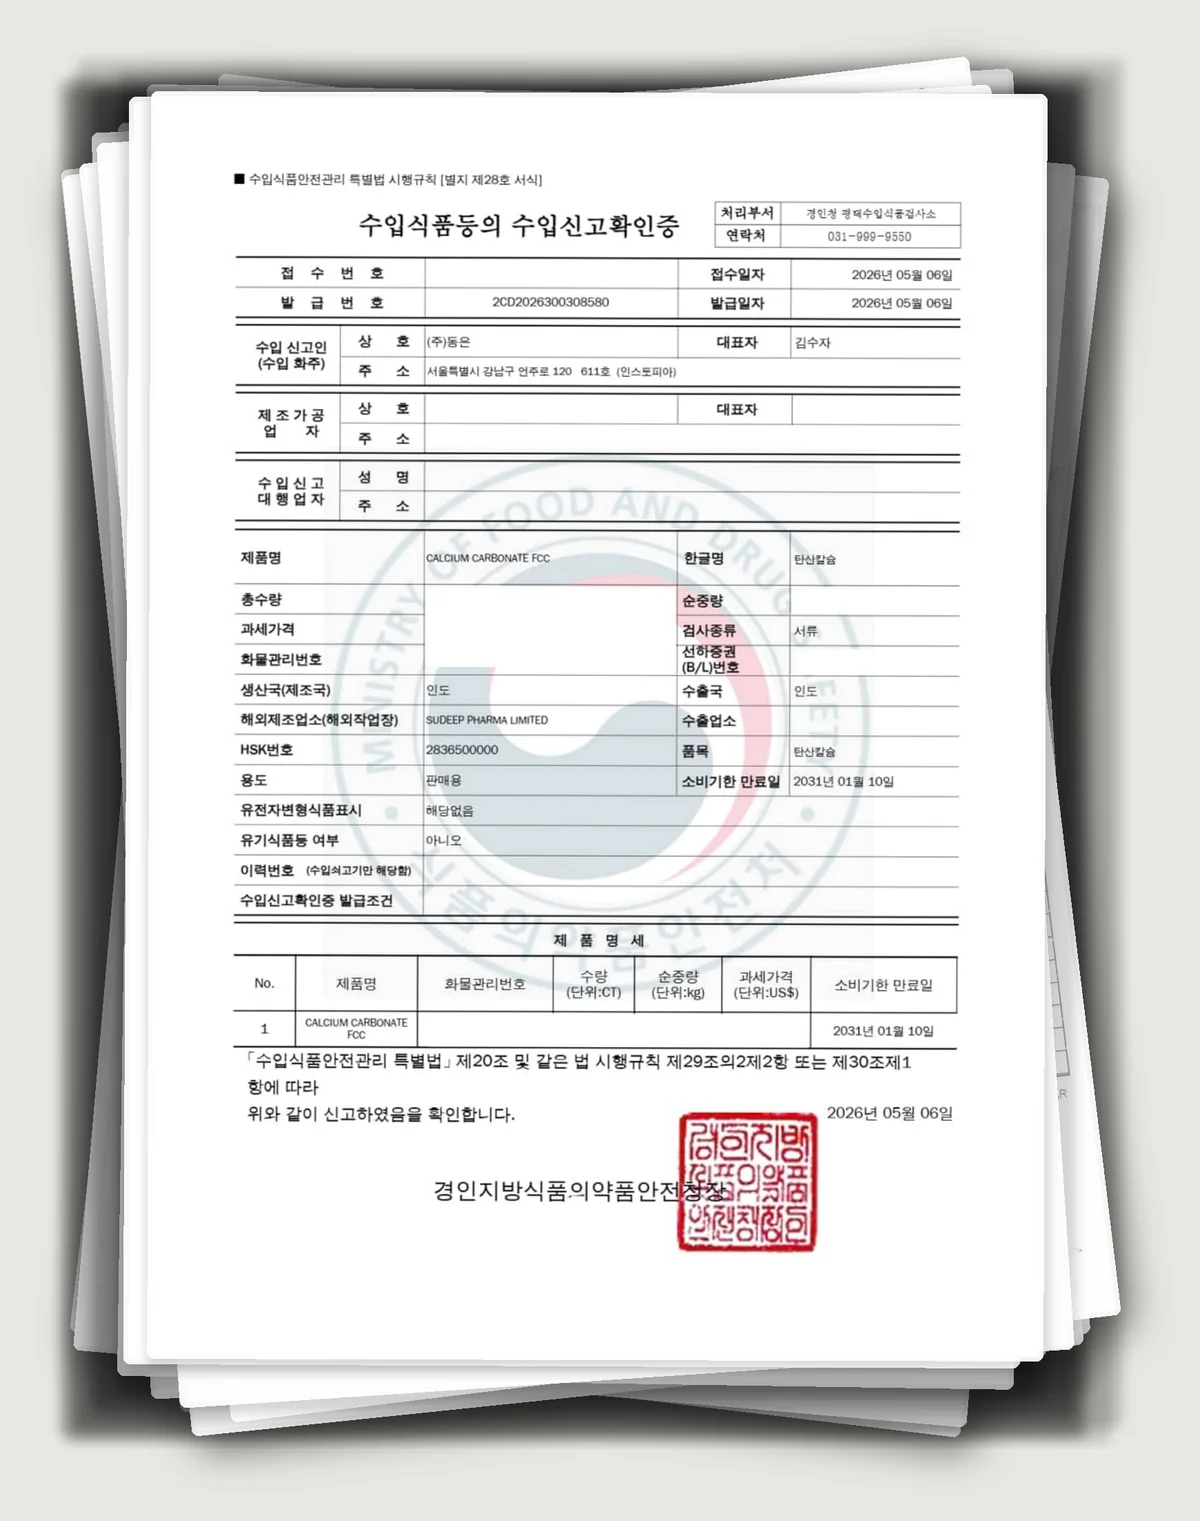
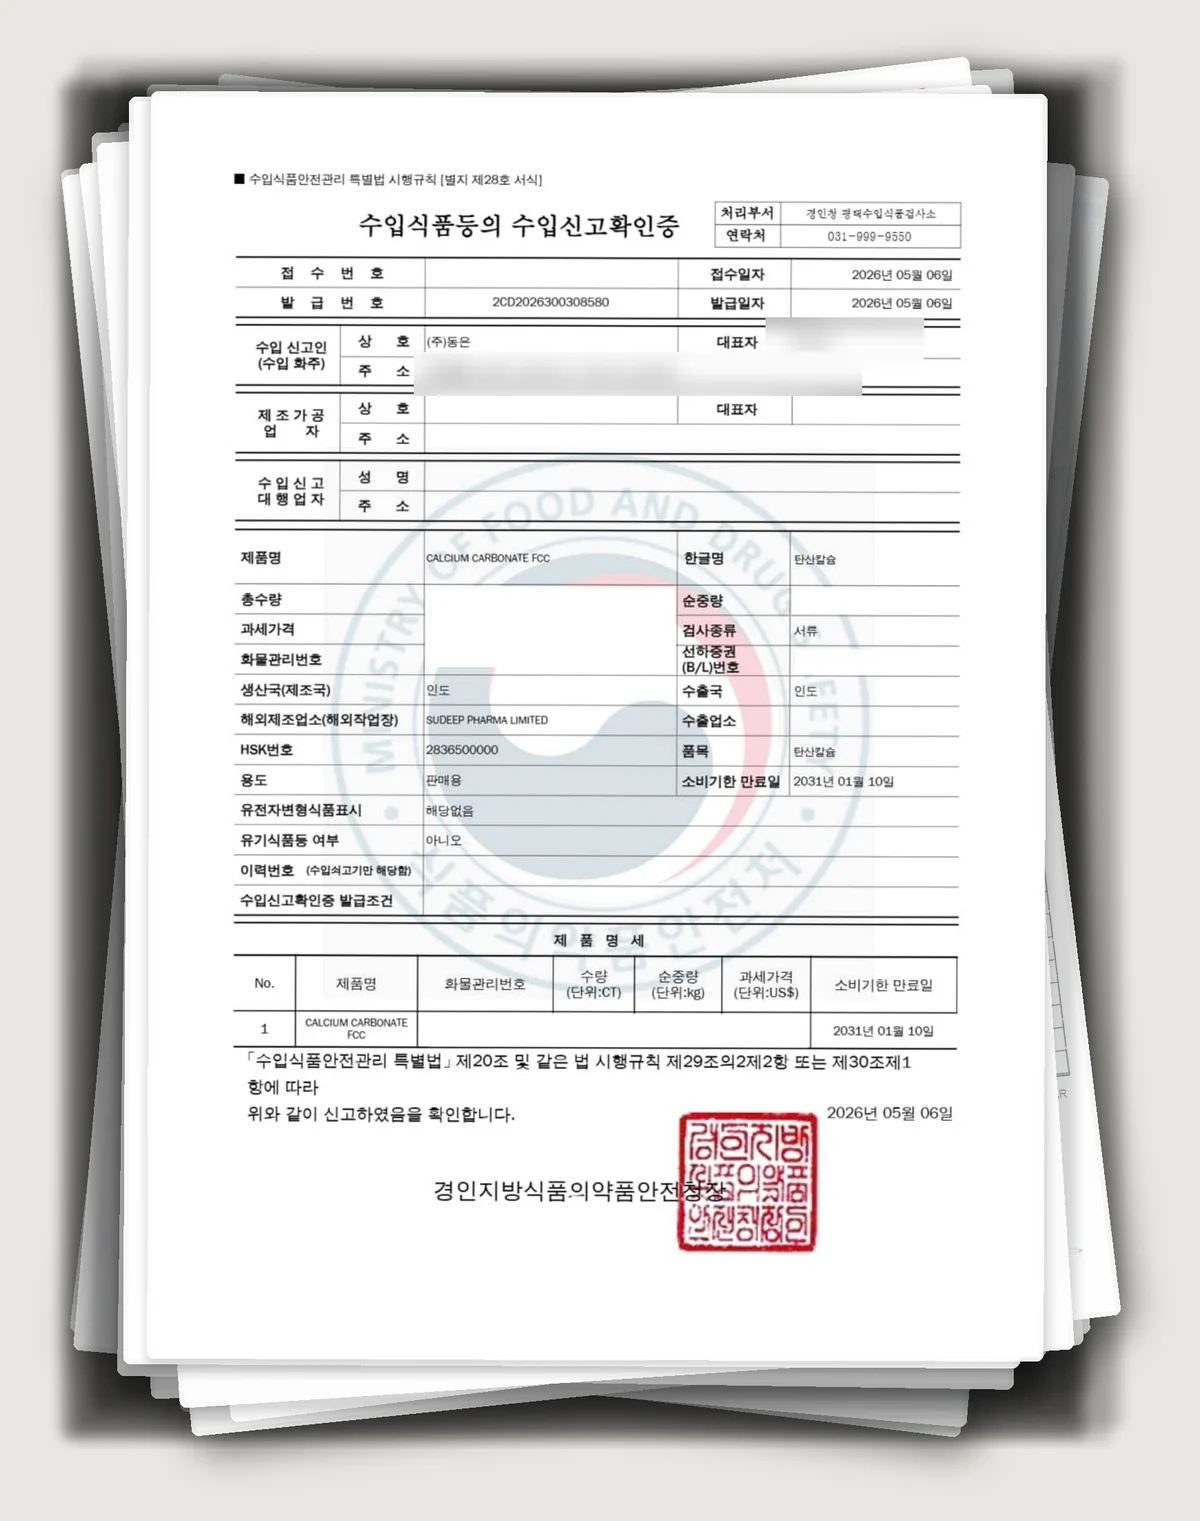
영양 근거 디자인 패스 — 랜딩 표 확대·/science 재구성·서류 개인정보 흐림
사장님 제보 3건:
- 랜딩 교차검증표가 2단 반쪽 칸에서 너무 작았다 → 섹션 재구성.
  제목·불릿을 상단 2단으로, 표는 전폭(최대 880px) 문서 매트(흰 액자+그림자)
  + 43/43 도장 배지. CTA·캡션은 표 아래 중앙.
- /science "정리 안 된 느낌" → 디자인 패스: 히어로에 스탯 스트립(43/43·
  3대 기준·4종 — 표의 사실 표기 재인용), EVIDENCE 를 랜딩과 같은 문서
  매트+도장 언어로, 서류 카드 2장은 비율 제각각(가로 스크린샷 vs 세로
  증서)으로 높이가 어긋나던 것을 16:10 컨테인 액자(크림 바닥)+칩 라벨로
  통일. 문서는 cover 크롭 금지라 object-contain 직접 렌더.
- 수입신고확인증 개인정보 → 회사명만 남기고 대표자 실명·주소를 원본
  해상도에서 blur(16) 처리 후 재생성(복원 불가 확인). 카드 문구에 가림
  사실 명시.

검증: 동결 패널에서 스크롤 불가 → 세로 5400px 뷰포트(문서 페이지)와
body translateY 시프트(vh 히어로 페이지)로 데스크톱·모바일 실렌더 확인.

Changed region(s): [[0.3392, 0.1854, 0.7708, 0.2781]]

diff --git a/app/science/page.tsx b/app/science/page.tsx
@@ -109,6 +109,22 @@ export default async function SciencePage() {
               어떤 출처를 어떻게 쓰는지, AI 가 어디까지 하고 어디서 멈추는지 — 모두
               공개합니다.
             </p>
+            {/* 스탯 스트립(2026-09-04 디자인 패스) — 페이지의 결론을 첫 화면에서
+                숫자로. 수치는 아래 교차검증표의 사실 표기 재인용. */}
+            <div className="mt-8 grid grid-cols-3 gap-3" style={{ maxWidth: 620 }}>
+              {[
+                { n: '43/43', l: '영양 항목 충족' },
+                { n: '3', l: '국제 기준 교차 대조' },
+                { n: '4', l: '레시피 전 종 검증' },
+              ].map((s, i) => (
+                <Reveal key={s.l} delay={i * 70}>
+                  <div style={{ background: '#FFFFFF', border: '1px solid var(--fd-line)', borderRadius: 10, padding: '16px 14px 14px' }}>
+                    <div className="font-chunky" style={{ color: 'var(--fd-coral)', fontSize: 24, lineHeight: 1 }}>{s.n}</div>
+                    <div className="mt-2 text-[11.5px] md:text-[12px]" style={{ color: 'var(--fd-muted)', fontWeight: 700 }}>{s.l}</div>
+                  </div>
+                </Reveal>
+              ))}
+            </div>
           </Container>
         </Section>
 
@@ -176,78 +192,88 @@ export default async function SciencePage() {
               서류를 그대로 공개합니다.
             </p>
 
+            {/* 문서 매트 + 도장 배지 — 랜딩과 같은 디자인 언어(2026-09-04 패스). */}
             <Reveal delay={80}>
-              <div className="pt-8">
-                <PhotoSlot
-                  src="/nutrition-crossval-landing.webp"
-                  alt="AAFCO·FEDIAF·NRC 3대 영양기준 교차검증표 — 레시피 4종 전 항목 검증"
-                  label="영양 교차검증표"
-                  ratio="3141 / 3010"
-                  tone="green"
-                  rounded={12}
-                  className="w-full mx-auto"
-                />
-                <p className="pt-3 text-[12px] md:text-[12.5px]" style={{ color: 'var(--fd-muted)', lineHeight: 1.6 }}>
-                  기준치는 메뉴별 칼로리 기반 환산치, 설계값은 투입 재료의
-                  영양성분 분석에 기반한 추정치입니다.
-                </p>
-                <div className="pt-5">
-                  {/* FD Button 은 target 을 안 받는다(내부 Link) — 새 탭 PDF 는 순수 <a>. */}
-                  <a
-                    href="/docs/farmerstail-cross-validation.pdf"
-                    target="_blank"
-                    rel="noopener noreferrer"
-                    className="inline-flex items-center gap-2 rounded-full text-[14px] md:text-[15px]"
-                    style={{ padding: '13px 26px', background: 'var(--fd-pine)', color: '#FFFFFF', fontWeight: 800, letterSpacing: '-0.01em' }}
+              <div className="relative mx-auto mt-9" style={{ maxWidth: 820 }}>
+                <div style={{ background: '#FFFFFF', border: '1px solid var(--fd-line)', borderRadius: 16, padding: 14, boxShadow: '0 30px 70px -34px rgba(22,20,15,0.35)' }}>
+                  <PhotoSlot
+                    src="/nutrition-crossval-landing.webp"
+                    alt="AAFCO·FEDIAF·NRC 3대 영양기준 교차검증표 — 레시피 4종 전 항목 검증"
+                    label="영양 교차검증표"
+                    ratio="3141 / 3010"
+                    tone="green"
+                    rounded={8}
+                    className="w-full"
+                  />
+                </div>
+                <div aria-hidden className="absolute" style={{ top: -16, right: 14, transform: 'rotate(-8deg)', zIndex: 2 }}>
+                  <span
+                    className="flex flex-col items-center justify-center text-center"
+                    style={{ width: 92, height: 92, borderRadius: 999, background: 'var(--fd-coral)', color: '#FFFFFF', border: '3px solid #FFFFFF', boxShadow: '0 10px 24px -10px rgba(22,20,15,0.4)' }}
                   >
-                    교차검증표 원문(PDF) 보기
-                    <ArrowRight size={17} strokeWidth={2.4} />
-                  </a>
+                    <span className="font-chunky" style={{ fontSize: 21, lineHeight: 1 }}>43/43</span>
+                    <span style={{ fontSize: 10.5, fontWeight: 800, letterSpacing: '0.08em', marginTop: 4 }}>항목 충족</span>
+                  </span>
                 </div>
               </div>
             </Reveal>
+            <Reveal delay={120}>
+              <div className="mt-6 flex flex-col items-center gap-4 text-center">
+                <p className="text-[12px] md:text-[12.5px]" style={{ color: 'var(--fd-muted)', lineHeight: 1.6, maxWidth: 560 }}>
+                  기준치는 메뉴별 칼로리 기반 환산치, 설계값은 투입 재료의
+                  영양성분 분석에 기반한 추정치입니다.
+                </p>
+                {/* FD Button 은 target 을 안 받는다(내부 Link) — 새 탭 PDF 는 순수 <a>. */}
+                <a
+                  href="/docs/farmerstail-cross-validation.pdf"
+                  target="_blank"
+                  rel="noopener noreferrer"
+                  className="inline-flex items-center gap-2 rounded-full text-[14px] md:text-[15px]"
+                  style={{ padding: '13px 26px', background: 'var(--fd-pine)', color: '#FFFFFF', fontWeight: 800, letterSpacing: '-0.01em' }}
+                >
+                  교차검증표 원문(PDF) 보기
+                  <ArrowRight size={17} strokeWidth={2.4} />
+                </a>
+              </div>
+            </Reveal>
 
-            <div className="pt-10 grid md:grid-cols-2 gap-4 md:gap-6">
-              <Reveal delay={60}>
-                <article style={{ background: '#FFFFFF', border: '1px solid var(--fd-line)', borderRadius: 10, overflow: 'hidden' }}>
-                  <PhotoSlot
-                    src="/evidence-premix-report.webp"
-                    alt="파머스테일 뉴트리 코어 프리믹스 — 식품안전나라 품목보고 조회 화면"
-                    label="프리믹스 품목보고"
-                    ratio="697 / 385"
-                    tone="cream"
-                    rounded={0}
-                    className="w-full"
-                  />
-                  <div style={{ padding: '16px 18px 20px' }}>
-                    <h3 className="text-[15px] md:text-[16px]" style={{ fontWeight: 800, color: 'var(--fd-pine)' }}>정식 품목보고된 프리믹스</h3>
-                    <p className="mt-1.5 text-[12.5px] md:text-[13px]" style={{ color: 'var(--fd-muted)', lineHeight: 1.6 }}>
-                      비타민·미네랄 프리믹스 &lsquo;파머스테일 뉴트리 코어&rsquo;는
-                      식품안전나라에 품목보고된 제품입니다.
-                    </p>
-                  </div>
-                </article>
-              </Reveal>
-              <Reveal delay={130}>
-                <article style={{ background: '#FFFFFF', border: '1px solid var(--fd-line)', borderRadius: 10, overflow: 'hidden' }}>
-                  <PhotoSlot
-                    src="/evidence-import-cert.webp"
-                    alt="비타민·미네랄 원료의 수입식품 수입신고확인증"
-                    label="원료 수입신고확인증"
-                    ratio="1740 / 2205"
-                    tone="cream"
-                    rounded={0}
-                    className="w-full"
-                  />
-                  <div style={{ padding: '16px 18px 20px' }}>
-                    <h3 className="text-[15px] md:text-[16px]" style={{ fontWeight: 800, color: 'var(--fd-pine)' }}>원료까지 신고 서류로</h3>
-                    <p className="mt-1.5 text-[12.5px] md:text-[13px]" style={{ color: 'var(--fd-muted)', lineHeight: 1.6 }}>
-                      프리믹스에 쓰이는 원료는 수입식품 안전관리 특별법에 따른
-                      수입신고확인증을 갖춘 것을 사용합니다.
-                    </p>
-                  </div>
-                </article>
-              </Reveal>
+            {/* 서류 카드 2장 — 이미지 비율이 제각각(가로 스크린샷 vs 세로 증서)이라
+                카드 높이가 어긋나던 것을, 같은 높이의 컨테인 액자(16:10, 크림 바닥)
+                로 통일. 문서라 cover 크롭 금지 → object-contain. */}
+            <div className="pt-10 grid md:grid-cols-2 gap-4 md:gap-6 md:items-stretch">
+              {[
+                {
+                  chip: '식품안전나라 · 품목보고',
+                  src: '/evidence-premix-report.webp',
+                  alt: '파머스테일 뉴트리 코어 프리믹스 — 식품안전나라 품목보고 조회 화면',
+                  t: '정식 품목보고된 프리믹스',
+                  b: '비타민·미네랄 프리믹스 ‘파머스테일 뉴트리 코어’는 식품안전나라에 품목보고된 제품입니다.',
+                  delay: 60,
+                },
+                {
+                  chip: '수입식품 · 수입신고확인증',
+                  src: '/evidence-import-cert.webp',
+                  alt: '비타민·미네랄 원료의 수입식품 수입신고확인증 (개인정보 가림)',
+                  t: '원료까지 신고 서류로',
+                  b: '프리믹스에 쓰이는 원료는 수입식품 안전관리 특별법에 따른 수입신고확인증을 갖춘 것을 사용합니다. 개인정보 보호를 위해 성명·주소는 가렸어요.',
+                  delay: 130,
+                },
+              ].map((d) => (
+                <Reveal key={d.t} delay={d.delay} className="h-full">
+                  <article className="h-full flex flex-col" style={{ background: '#FFFFFF', border: '1px solid var(--fd-line)', borderRadius: 12, overflow: 'hidden' }}>
+                    <div className="relative flex items-center justify-center" style={{ aspectRatio: '16 / 10', background: 'var(--fd-cream)', padding: 14 }}>
+                      {/* eslint-disable-next-line @next/next/no-img-element -- 문서 원장:
+                          contain 표시가 필수라 PhotoSlot(cover) 대신 직접 렌더 */}
+                      <img src={d.src} alt={d.alt} loading="lazy" style={{ maxWidth: '100%', maxHeight: '100%', objectFit: 'contain', borderRadius: 4 }} />
+                      <span className="absolute rounded-full text-[10.5px]" style={{ top: 12, left: 12, padding: '4px 10px', background: 'var(--fd-pine)', color: '#FFFFFF', fontWeight: 800, letterSpacing: '0.03em' }}>{d.chip}</span>
+                    </div>
+                    <div className="flex-1" style={{ padding: '16px 18px 20px' }}>
+                      <h3 className="text-[15px] md:text-[16px]" style={{ fontWeight: 800, color: 'var(--fd-pine)' }}>{d.t}</h3>
+                      <p className="mt-1.5 text-[12.5px] md:text-[13px]" style={{ color: 'var(--fd-muted)', lineHeight: 1.6 }}>{d.b}</p>
+                    </div>
+                  </article>
+                </Reveal>
+              ))}
             </div>
           </Container>
         </Section>

diff --git a/app/page.tsx b/app/page.tsx
@@ -747,9 +747,9 @@ function ScienceExpertise() {
   return (
     <Section bg="offwhite" pad="md">
       <Container size="xl">
-        <div className="grid md:grid-cols-2 md:items-center gap-9 md:gap-14">
-          {/* 2단은 좌우에서 마주 들어온다 — 전 섹션이 '아래→위' 하나로 뜨는
-              단조로움이 AI 티의 원인이었다(2026-08-01). */}
+        {/* 2단은 좌우에서 마주 들어온다 — 전 섹션이 '아래→위' 하나로 뜨는
+            단조로움이 AI 티의 원인이었다(2026-08-01). */}
+        <div className="grid md:grid-cols-2 md:items-end gap-6 md:gap-14">
           <Reveal variant="left">
             <div>
               <Eyebrow>THE SCIENCE</Eyebrow>
@@ -757,31 +757,65 @@ function ScienceExpertise() {
                 마케팅이 아니라
                 <br />수의영양학으로
               </Display>
-              <ul className="pt-6 grid gap-3">
-                {SCIENCE.map((s) => (
-                  <li key={s} className="grid items-baseline" style={{ gridTemplateColumns: '20px 1fr', gap: 10 }}>
-                    <Check size={17} strokeWidth={3} color="var(--fd-green)" />
-                    <span className="text-[14px] md:text-[15px]" style={{ color: 'var(--fd-muted)', lineHeight: 1.6 }}>{s}</span>
-                  </li>
-                ))}
-              </ul>
-              <div className="pt-7">
-                <Button href="/science" tone="pine" size="md">
-                  영양 설계 근거 보기
-                  <ArrowRight size={18} strokeWidth={2.4} />
-                </Button>
-              </div>
             </div>
           </Reveal>
-          <Reveal variant="right" delay={100}>
-            <Parallax speed={0.06}>
-            {/* 2026-09-04 사장님 제작 교차검증표(AAFCO·FEDIAF·NRC × 레시피 4종)로
-                교체. 문서 이미지라 ratio 를 원본 비율로 정확히 — cover 크롭되면
-                표가 잘린다. 원문 PDF 는 /science 의 실물 근거 섹션에. */}
-            <PhotoSlot src="/nutrition-crossval-landing.webp" alt="AAFCO·FEDIAF·NRC 3대 영양기준 교차검증표 — 레시피 4종 전 항목 검증" label="영양 교차검증표" ratio="3141 / 3010" tone="green" rounded={10} className="w-full" />
-            </Parallax>
+          <Reveal variant="right" delay={80}>
+            <ul className="grid gap-3">
+              {SCIENCE.map((s) => (
+                <li key={s} className="grid items-baseline" style={{ gridTemplateColumns: '20px 1fr', gap: 10 }}>
+                  <Check size={17} strokeWidth={3} color="var(--fd-green)" />
+                  <span className="text-[14px] md:text-[15px]" style={{ color: 'var(--fd-muted)', lineHeight: 1.6 }}>{s}</span>
+                </li>
+              ))}
+            </ul>
           </Reveal>
         </div>
+
+        {/* 교차검증표(2026-09-04 사장님 제작) — "이미지가 너무 작다" 제보로
+            2단 반쪽 칸에서 꺼내 전폭(최대 880px) 문서 매트로. 문서 이미지라
+            ratio 를 원본 비율로 정확히 — cover 크롭되면 표가 잘린다.
+            원문 PDF 는 /science 의 실물 근거 섹션에. */}
+        <Reveal delay={100}>
+          <div className="relative mx-auto mt-10 md:mt-14" style={{ maxWidth: 880 }}>
+            <Parallax speed={0.05}>
+              <div style={{ background: '#FFFFFF', border: '1px solid var(--fd-line)', borderRadius: 16, padding: 14, boxShadow: '0 30px 70px -34px rgba(22,20,15,0.35)' }}>
+                <PhotoSlot
+                  src="/nutrition-crossval-landing.webp"
+                  alt="AAFCO·FEDIAF·NRC 3대 영양기준 교차검증표 — 레시피 4종 전 항목 검증"
+                  label="영양 교차검증표"
+                  ratio="3141 / 3010"
+                  tone="green"
+                  rounded={8}
+                  className="w-full"
+                />
+              </div>
+            </Parallax>
+            {/* 도장 배지 — 표 우상단에 살짝 겹치는 검증 스탬프. 수치(43/43)는
+                표 자체의 사실 표기 재인용이라 표시광고 무리 없음. */}
+            <div aria-hidden className="absolute" style={{ top: -16, right: 14, transform: 'rotate(-8deg)', zIndex: 2 }}>
+              <span
+                className="flex flex-col items-center justify-center text-center"
+                style={{ width: 92, height: 92, borderRadius: 999, background: 'var(--fd-coral)', color: '#FFFFFF', border: '3px solid #FFFFFF', boxShadow: '0 10px 24px -10px rgba(22,20,15,0.4)' }}
+              >
+                <span className="font-chunky" style={{ fontSize: 21, lineHeight: 1 }}>43/43</span>
+                <span style={{ fontSize: 10.5, fontWeight: 800, letterSpacing: '0.08em', marginTop: 4 }}>항목 충족</span>
+              </span>
+            </div>
+          </div>
+        </Reveal>
+        <Reveal delay={140}>
+          <div className="mt-6 md:mt-8 flex flex-col items-center gap-4 text-center">
+            <p className="text-[12px] md:text-[13px]" style={{ color: 'var(--fd-muted)', lineHeight: 1.6, maxWidth: 560 }}>
+              레시피 4종 × 43개 영양 항목을 AAFCO·FEDIAF·NRC 기준과 항목별로
+              교차 대조했습니다. 기준치는 칼로리 기반 환산치, 설계값은 재료
+              영양성분 분석에 기반한 추정치예요.
+            </p>
+            <Button href="/science" tone="pine" size="md">
+              영양 설계 근거 보기
+              <ArrowRight size={18} strokeWidth={2.4} />
+            </Button>
+          </div>
+        </Reveal>
       </Container>
     </Section>
   )
